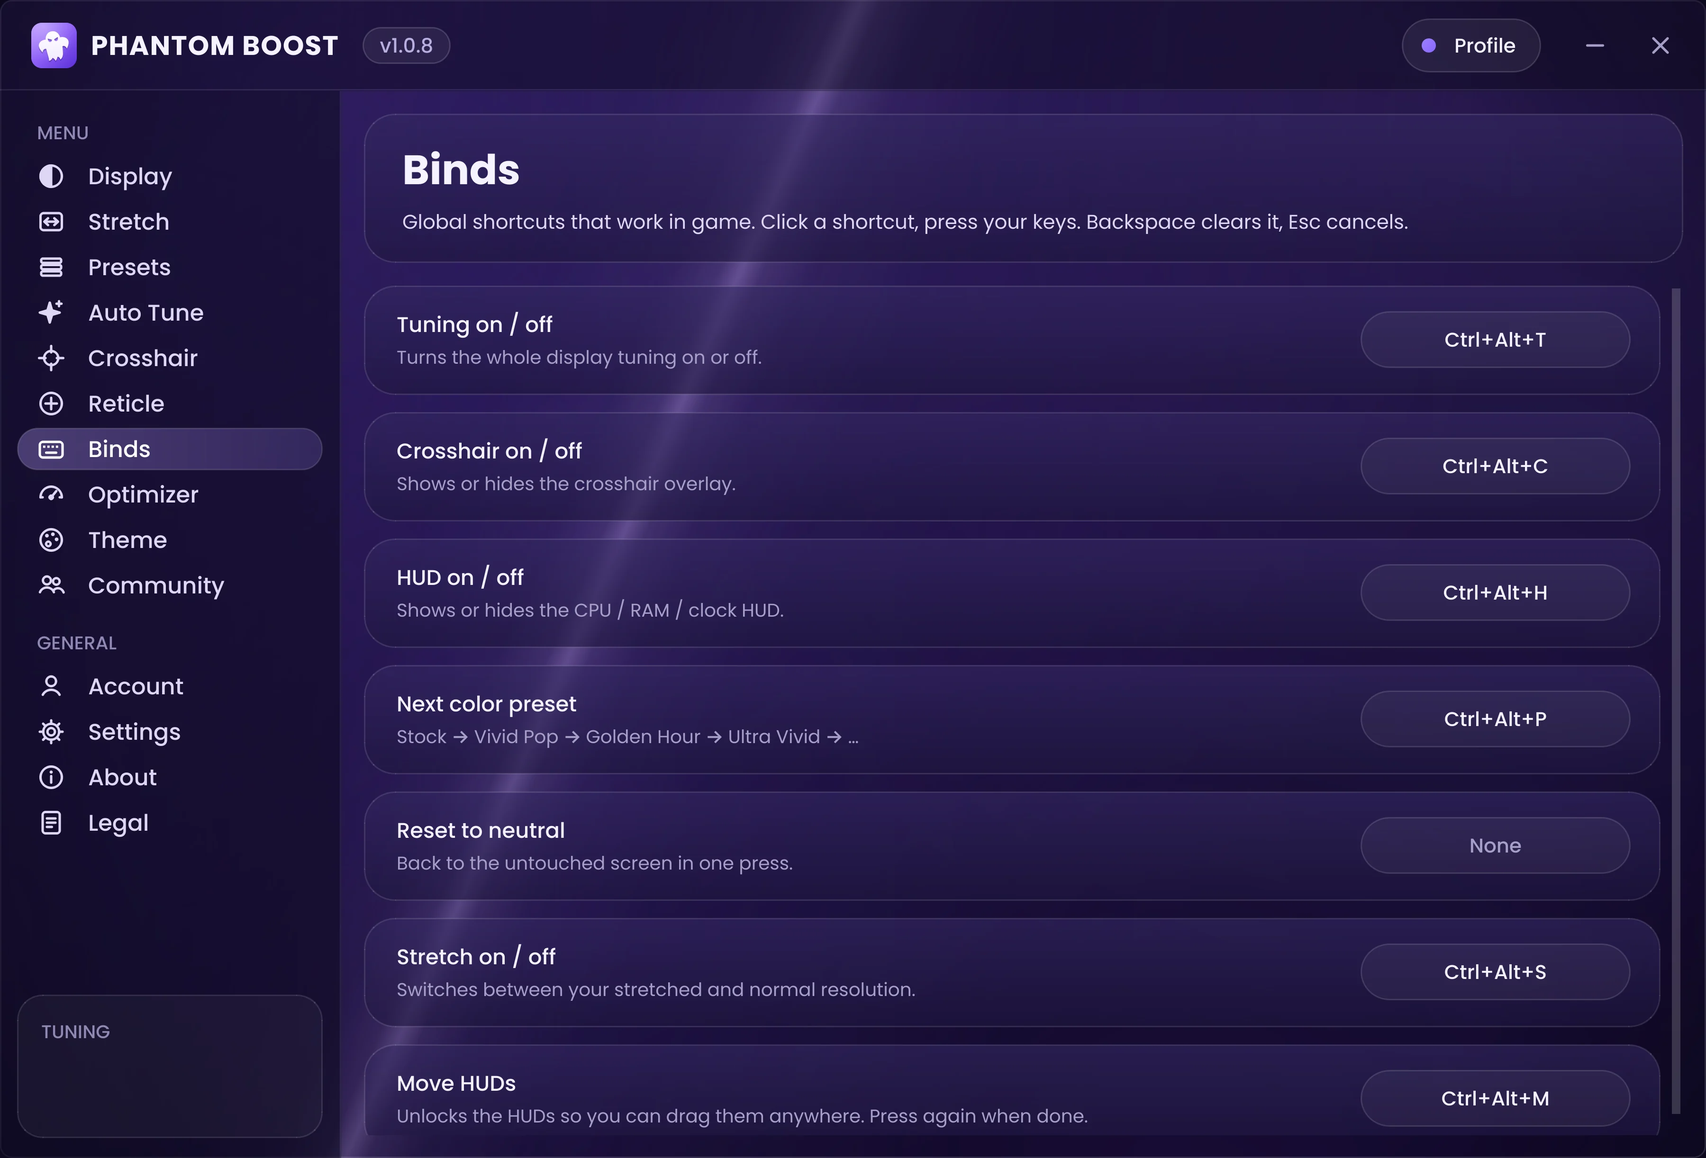
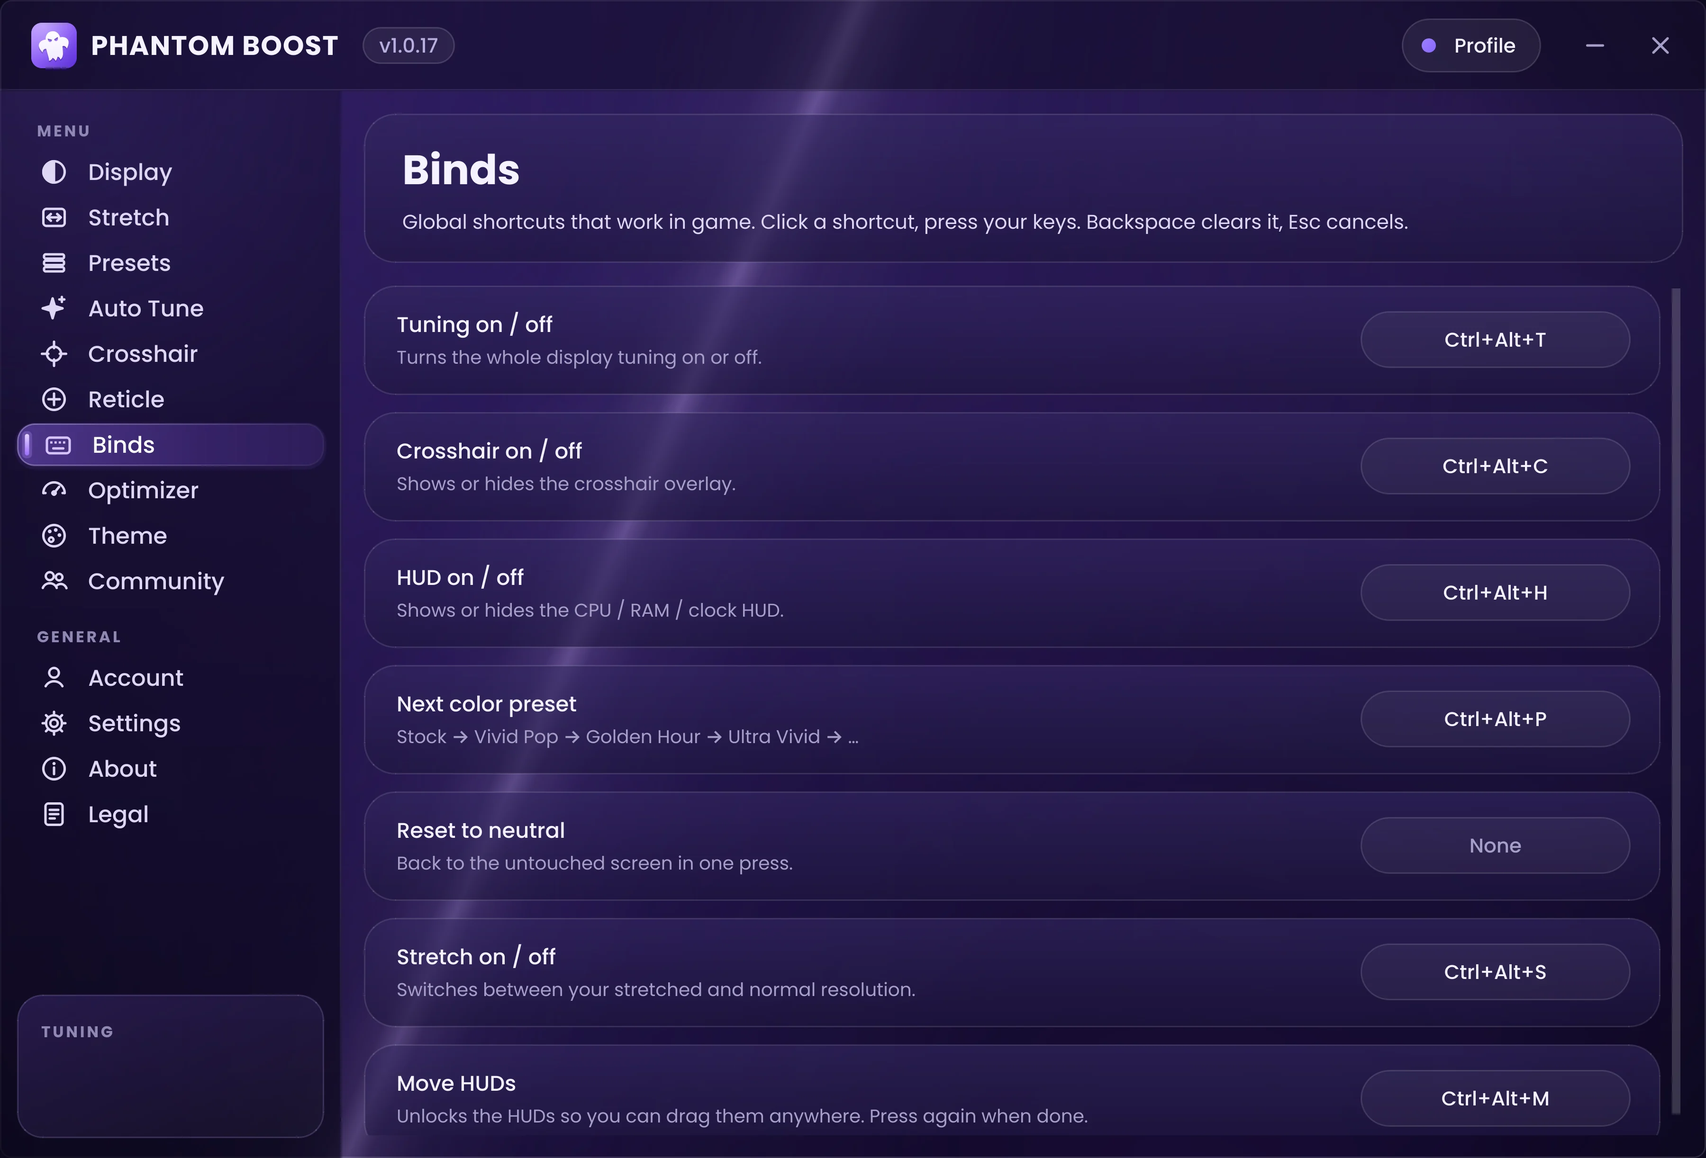
Add files via upload

Changed region(s): [[0.0, 0.0622, 0.1867, 0.4663], [0.0, 0.4973, 0.1244, 0.7149], [0.0311, 0.8703, 0.0622, 0.9014]]

diff --git a/index.html b/index.html
@@ -135,13 +135,18 @@ h1 .glow{background:linear-gradient(100deg,#fff 10%,#d9c4ff 45%,#a77bff 90%);-we
 .a-sl .fl{position:absolute;left:2px;top:13px;height:8px;border-radius:4px;background:linear-gradient(90deg,#8a5cf6,#c4a2ff)}
 .a-sl .kb{position:absolute;top:5px;width:36px;height:24px;margin-left:-18px;border-radius:12px;background:#ece6ff;box-shadow:0 2px 0 #00000046;transition:width .12s,margin .12s,background .12s}
 .a-sl:hover .kb,.a-sl.drag .kb{width:38px;margin-left:-19px;background:#fff}
-.a-pv{width:498px;height:275px;border-radius:14px;overflow:hidden;cursor:ew-resize;touch-action:none;background:#000}
+.a-pv{width:498px;height:254px;border-radius:14px;overflow:hidden;cursor:ew-resize;touch-action:none;background:#000}
 .a-pv canvas{position:absolute;inset:0;width:100%;height:100%}
 .a-tag{position:absolute;top:13px;height:26px;padding:0 11px;border-radius:13px;display:grid;place-items:center;font-size:13px;font-weight:600;color:#fff}
 .a-tag.l{left:12px;background:#000000a0}.a-tag.r{right:12px;background:#8b5cf6dd}.a-tag.r.off{background:#000000a0}
 .a-split{position:absolute;top:0;bottom:0;left:var(--pos,50%);width:2px;margin-left:-1px;background:#fff}
 .a-knob{position:absolute;top:50%;left:50%;width:30px;height:30px;margin:-15px;border-radius:50%;background:#fff;color:#5b3fd0;display:grid;place-items:center}
 .a-knob svg{width:16px;height:16px}
+.a-knob{transition:transform .14s ease-out,box-shadow .14s ease-out;box-shadow:0 2px 6px #0006}
+.a-pv:hover .a-knob,.a-pv.drag .a-knob{transform:scale(1.16);box-shadow:0 2px 8px #0007,0 0 0 6px #8b5cf640}
+.a-tag{transition:opacity .12s linear}
+#pvFade{opacity:0;pointer-events:none}
+#pvFade.go{transition:opacity .32s ease-out}
 .a-pv.curve .a-split,.a-pv.curve .a-tag{display:none}
 .a-card{top:680px;width:117px;height:100px;border-radius:14px;background:#00000046;border:2px solid #ffffff14;padding:2px 2px 7px;display:flex;flex-direction:column;gap:5px;
   transition:border-color .2s,background .2s}
@@ -151,7 +156,7 @@ h1 .glow{background:linear-gradient(100deg,#fff 10%,#d9c4ff 45%,#a77bff 90%);-we
 .a-card span{font-size:14px;text-align:center;color:#f5f2ff}
 .a-hot{z-index:2;border-radius:12px}
 .a-hot:hover{background:#ffffff0c}
-.a-nav{left:12px;width:215px;height:30px;border-radius:14px;z-index:2;border:1px solid transparent;transition:background .15s,border-color .15s}
+.a-nav{left:12px;width:216px;height:31px;border-radius:12px;z-index:2;border:1px solid transparent;transition:background .15s,border-color .15s}
 .a-nav:hover{background:#ffffff0a;border-color:#c8b4ff3c}
 
 
@@ -361,7 +366,7 @@ footer{padding:50px 0 40px;color:var(--mute);font-size:14px}
   <div class="hero wrap">
     <img class="ghost-float a" src="assets/img/logo.png" alt="">
     <img class="ghost-float b" src="assets/img/logo.png" alt="">
-    <a class="pill" href="#install"><b class="ver">v1.0.8</b><span class="live"></span><span>Out now · free for everyone</span></a>
+    <a class="pill" href="#install"><b class="ver">v1.0.17</b><span class="live"></span><span>Out now · free for everyone</span></a>
     <h1>Your game,<br><span class="glow">but it looks better.</span></h1>
     <p class="lead">Phantom Boost tunes the colors of your screen, stretches your resolution, draws a clean crosshair and adds smooth HUDs on top of your game. All in one light Windows app. 100% free.</p>
     <div class="cta">
@@ -388,10 +393,10 @@ footer{padding:50px 0 40px;color:var(--mute);font-size:14px}
             <button class="a-toggle on" id="aToggle" style="left:1077px;top:113px" role="switch" aria-checked="true" aria-label="Tuning on or off"></button>
             <div class="a-seg" id="aTabs" style="left:450px;top:228px;width:155px" data-items="Tone,Color" data-cur="1"></div>
             <div id="aRows"></div>
-            <div class="a-seg" style="left:760px;top:226px;width:104px" data-items="Rob Run" data-cur="0"></div>
+            <div class="a-seg" id="aGame" style="left:903px;top:544px;width:262px" data-items="Rob Run,Fortnite,CS2" data-cur="0"></div>
             <div class="a-seg" id="aMode" style="left:997px;top:226px;width:168px" data-items="Demo,Curve" data-cur="0"></div>
             <div class="a-pv" id="aPv" style="left:667px;top:278px">
-              <canvas id="pvBefore"></canvas><canvas id="pvAfter"></canvas><canvas id="pvCurve" hidden></canvas>
+              <canvas id="pvBefore"></canvas><canvas id="pvAfter"></canvas><canvas id="pvFade"></canvas><canvas id="pvCurve" hidden></canvas>
               <span class="a-tag l">BEFORE</span><span class="a-tag r">AFTER</span>
               <div class="a-split"><div class="a-knob"><svg><use href="#i-lr"/></svg></div></div>
             </div>
@@ -446,25 +451,25 @@ footer{padding:50px 0 40px;color:var(--mute);font-size:14px}
   <!-- ======================== FEATURES -->
   <section id="new"><div class="wrap">
     <div class="head center rv">
-      <div class="eyebrow">New in v1.0.8</div>
-      <h2>Winter and Halloween are here.</h2>
-      <p class="sub">Two seasonal themes with their own logo, plus a whole batch of upgrades. Already have Phantom Boost? It updates by itself.</p>
+      <div class="eyebrow">New in v1.0.17</div>
+      <h2>Premium, inside and out.</h2>
+      <p class="sub">Two hand-drawn seasonal themes, a premium HUD in your color, your own stretch resolutions and a lot more crosshairs. Already have Phantom Boost? It updates by itself.</p>
     </div>
     <div class="seasons">
       <article class="card season win rv"><div class="sshot"><img src="assets/img/theme-winter.webp" alt="Phantom Boost with the Winter theme" loading="lazy" width="1200" height="815"><canvas class="fx" data-fx="snow"></canvas></div>
         <h3>Winter <span class="stag">Theme</span></h3>
-        <p>Falling snow with real six-branch crystals, gusts of wind, a northern-lights sky, snowy pines, and a Santa hat on the ghost.</p></article>
+        <p>A starry night with soft northern lights, snowy mountains fading into the mist, a pine forest and falling snow. The ghost gets a Santa hat.</p></article>
       <article class="card season hal rv"><div class="sshot"><img src="assets/img/theme-halloween.webp" alt="Phantom Boost with the Halloween theme" loading="lazy" width="1200" height="815"><canvas class="fx" data-fx="spooky"></canvas></div>
         <h3>Halloween <span class="stag">Theme</span></h3>
-        <p>An orange night with a full moon, glowing pumpkins and rising embers. A spider drops in now and then, bats fly by, and the ghost gets a witch hat.</p></article>
+        <p>A purple-to-orange sky, a giant moon, a haunted manor with its lights on, dead trees and glowing pumpkins. A spider drops in now and then, and the ghost gets a witch hat.</p></article>
     </div>
     <div class="news">
-      <div class="card new rv"><svg><use href="#i-check"/></svg><div><h4>Stays out of your way</h4><p>The X button tucks the app next to the clock. Your tuning, crosshair and HUDs stay on.</p></div></div>
-      <div class="card new rv"><svg><use href="#i-check"/></svg><div><h4>New HUD stats</h4><p>Your game's FPS and your download speed join CPU, GPU, RAM, ping and the clock.</p></div></div>
-      <div class="card new rv"><svg><use href="#i-check"/></svg><div><h4>Better Discord status</h4><p>Show the game you're boosting, the song you're playing, and a clickable logo.</p></div></div>
-      <div class="card new rv"><svg><use href="#i-check"/></svg><div><h4>Music HUD upgrades</h4><p>See the next lyric line coming, and a progress bar in your cover's color.</p></div></div>
-      <div class="card new rv"><svg><use href="#i-check"/></svg><div><h4>Smoother everywhere</h4><p>A new opening animation, smooth fades, and no more lag on the blur and dim sliders.</p></div></div>
-      <div class="card new rv"><svg><use href="#i-check"/></svg><div><h4>Reset in one click</h4><p>Presets now have a "Reset to neutral" button for colors and gamma.</p></div></div>
+      <div class="card new rv"><svg><use href="#i-check"/></svg><div><h4>Premium Profile HUD</h4><p>Your avatar in a colored ring, smooth gauges, mini FPS graphs, ping bars and the date. Numbers glide instead of jumping.</p></div></div>
+      <div class="card new rv"><svg><use href="#i-check"/></svg><div><h4>Your HUD color</h4><p>Pick one of 10 colors, or any color you want, for every HUD: profile, performance graph, music and keys.</p></div></div>
+      <div class="card new rv"><svg><use href="#i-check"/></svg><div><h4>Create a resolution</h4><p>Type any stretched size. Phantom Boost tells you right away if your screen takes it, or how to add it in your GPU panel.</p></div></div>
+      <div class="card new rv"><svg><use href="#i-check"/></svg><div><h4>15 crosshairs</h4><p>Five new designs, plus rotation (turn a + into an X), square and diamond rings, and a T-style.</p></div></div>
+      <div class="card new rv"><svg><use href="#i-check"/></svg><div><h4>Smoother graph and lyrics</h4><p>A rock-steady FPS graph at 60 fps, and lyrics matched to the right version of your song, timing saved per track.</p></div></div>
+      <div class="card new rv"><svg><use href="#i-check"/></svg><div><h4>Stretch that just works</h4><p>Games in borderless mode resize with your screen, so nothing ends up off-screen anymore. Try the preview on Rob Run, Fortnite or CS2.</p></div></div>
     </div>
   </div></section>
 
@@ -478,7 +483,7 @@ footer{padding:50px 0 40px;color:var(--mute);font-size:14px}
     <div class="grid">
       <article class="card feat rv" data-tilt="5"><div class="glare"></div><div class="ico"><svg><use href="#i-color"/></svg></div><h3>Display Tuning</h3><p>Saturation, vibrance, hue, gamma and RGB, with presets, a tone curve and a live before / after.</p></article>
       <article class="card feat rv" data-tilt="5"><div class="glare"></div><div class="ico"><svg><use href="#i-stretch"/></svg></div><h3>Stretched Resolution</h3><p>1440×1080, 1280×960 and more. Auto stretch turns on with your game and goes back when you alt-tab.</p></article>
-      <article class="card feat rv" data-tilt="5"><div class="glare"></div><div class="ico"><svg><use href="#i-cross"/></svg></div><h3>Crosshair &amp; Reticle</h3><p>10 designs, any color, size, gap and outline. Share yours with a short code.</p></article>
+      <article class="card feat rv" data-tilt="5"><div class="glare"></div><div class="ico"><svg><use href="#i-cross"/></svg></div><h3>Crosshair &amp; Reticle</h3><p>15 designs, any color, rotation, ring shapes, size, gap and outline. Share yours with a short code.</p></article>
       <article class="card feat rv" data-tilt="5"><div class="glare"></div><div class="ico"><svg><use href="#i-hud"/></svg></div><h3>Smooth HUDs</h3><p>FPS, CPU, GPU, RAM, ping, download speed, keystrokes and your music with synced lyrics. Drag and resize them.</p></article>
       <article class="card feat rv" data-tilt="5"><div class="glare"></div><div class="ico"><svg><use href="#i-bolt"/></svg></div><h3>One-click Optimizer</h3><p>Windows tweaks for games, with a full backup and one-click undo.</p></article>
       <article class="card feat rv" data-tilt="5"><div class="glare"></div><div class="ico"><svg><use href="#i-spark"/></svg></div><h3>Made to feel good</h3><p>Smooth animations, Winter and Halloween themes, hotkeys, Discord status, several screens and auto-updates.</p></article>
@@ -495,6 +500,7 @@ footer{padding:50px 0 40px;color:var(--mute);font-size:14px}
         <li><svg><use href="#i-check"/></svg>Auto stretch for the games you choose</li>
         <li><svg><use href="#i-check"/></svg>Normal resolution when you alt-tab out</li>
         <li><svg><use href="#i-check"/></svg>Pick the screen if you have several</li>
+        <li><svg><use href="#i-check"/></svg>Create your own resolution, checked live</li>
       </ul>
     </div>
     <div class="rv">
@@ -525,6 +531,9 @@ footer{padding:50px 0 40px;color:var(--mute);font-size:14px}
           <button class="chip" aria-pressed="false" data-s="crossdot">Cross + dot</button>
           <button class="chip" aria-pressed="false" data-s="circle">Circle</button>
           <button class="chip" aria-pressed="false" data-s="t">T-shape</button>
+          <button class="chip" aria-pressed="false" data-s="x">X cross</button>
+          <button class="chip" aria-pressed="false" data-s="diamond">Diamond</button>
+          <button class="chip" aria-pressed="false" data-s="square">Square</button>
         </div>
         <div class="swatches" id="xcol">
           <button class="sw" aria-label="Green" aria-pressed="true" data-c="#00ff88" style="background:#00ff88"></button>
@@ -578,7 +587,7 @@ footer{padding:50px 0 40px;color:var(--mute);font-size:14px}
       </div>
       <div class="nums">
         <div class="num"><b id="n-dl">—</b><span>Downloads</span></div>
-        <div class="num"><b class="ver">v1.0.8</b><span>Latest version</span></div>
+        <div class="num"><b class="ver">v1.0.17</b><span>Latest version</span></div>
         <div class="num"><b>0 €</b><span>Forever</span></div>
         <div class="num"><b>~10 s</b><span>To install</span></div>
       </div>
@@ -714,29 +723,46 @@ footer{padding:50px 0 40px;color:var(--mute);font-size:14px}
       }
     }
     // image source recadrée en "cover"
-    function cover(img, cv, w, h, dpr) {
+    // fy : hauteur gardée quand l'image est recadrée (0 = haut, 1 = bas), comme dans l'appli
+    function cover(img, cv, w, h, dpr, fy = .5) {
       cv.width = Math.round(w * dpr); cv.height = Math.round(h * dpr);
       const c = cv.getContext("2d", { willReadFrequently: true }), k = Math.max(cv.width / img.width, cv.height / img.height);
       const dw = img.width * k, dh = img.height * k;
-      c.drawImage(img, (cv.width - dw) / 2, (cv.height - dh) / 2, dw, dh);
+      c.imageSmoothingQuality = "high";
+      c.drawImage(img, (cv.width - dw) / 2, (cv.height - dh) * fy, dw, dh);
       return c;
     }
 
-    const img = new Image();
-    img.src = "assets/img/rob_run.jpg";
-    let srcData = null, aftCtx = null, aftData = null;
-    img.decode().then(() => {
-      const dpr = Math.min(3, Math.max(1.5, (window.devicePixelRatio || 1) * (app.clientWidth / 1200)));
-      const bctx = cover(img, $("#pvBefore"), 498, 275, dpr);
-      srcData = bctx.getImageData(0, 0, $("#pvBefore").width, $("#pvBefore").height);
-      aftCtx = cover(img, $("#pvAfter"), 498, 275, dpr);
-      aftData = aftCtx.createImageData(srcData.width, srcData.height);
-      $$("#aCards canvas").forEach((cv, i) => {
-        const c = cover(img, cv, 109, 62, 3), d = c.getImageData(0, 0, cv.width, cv.height), o = c.createImageData(cv.width, cv.height);
-        grade(d, o, PRESETS[i][1]); c.putImageData(o, 0, 0);
+    // les trois jeux de l'aperçu (mêmes captures et même cadrage que dans l'appli)
+    const GAMES = [["assets/img/rob_run.jpg", .58], ["assets/img/fortnite.jpg", .03], ["assets/img/cs2.jpg", .5]];
+    const imgs = {};
+    const loadImg = src => imgs[src] || (imgs[src] = new Promise((ok, ko) => { const im = new Image(); im.onload = () => ok(im); im.onerror = ko; im.src = src; }));
+    let srcData = null, aftCtx = null, aftData = null, gameTok = 0;
+    function useGame(gi, fadeIn) {
+      const tok = ++gameTok, [src, fy] = GAMES[gi];
+      loadImg(src).then(img => {
+        if (tok !== gameTok) return;  // un autre jeu a été choisi entre-temps
+        const dpr = Math.min(3, Math.max(1.5, (window.devicePixelRatio || 1) * (app.clientWidth / 1200)));
+        if (fadeIn && srcData) {  // fondu : l'image actuelle (avant + après) reste par-dessus et s'efface
+          const f = $("#pvFade"), b = $("#pvBefore"), a = $("#pvAfter");
+          f.width = b.width; f.height = b.height;
+          const fc = f.getContext("2d"); fc.drawImage(b, 0, 0);
+          const x = Math.round(b.width * st.pos); fc.drawImage(a, x, 0, b.width - x, b.height, x, 0, b.width - x, b.height);
+          f.classList.remove("go"); f.style.opacity = 1; void f.offsetWidth; f.classList.add("go"); f.style.opacity = 0;
+        }
+        const bctx = cover(img, $("#pvBefore"), 498, 254, dpr, fy);
+        srcData = bctx.getImageData(0, 0, $("#pvBefore").width, $("#pvBefore").height);
+        aftCtx = cover(img, $("#pvAfter"), 498, 254, dpr, fy);
+        aftData = aftCtx.createImageData(srcData.width, srcData.height);
+        $$("#aCards canvas").forEach((cv, i) => {  // les miniatures des presets suivent le jeu choisi
+          const c = cover(img, cv, 109, 62, 3, fy), d = c.getImageData(0, 0, cv.width, cv.height), o = c.createImageData(cv.width, cv.height);
+          grade(d, o, PRESETS[i][1]); c.putImageData(o, 0, 0);
+        });
+        draw();
       });
-      render();
-    });
+    }
+    useGame(0, false);
+    GAMES.slice(1).forEach(([src]) => setTimeout(() => loadImg(src), 1500));  // préchargés : le changement est instantané
 
     let raf = 0;
     function render() { if (!raf) raf = requestAnimationFrame(() => { raf = 0; draw(); }); }
@@ -746,6 +772,9 @@ footer{padding:50px 0 40px;color:var(--mute);font-size:14px}
         grade(srcData, aftData, p); aftCtx.putImageData(aftData, 0, 0);  // comme l'appli : l'aperçu reste visible éteint
       }
       $("#pvAfter").style.clipPath = `inset(0 0 0 ${st.pos * 100}%)`;
+      const W = 498, tl = $("#aPv .a-tag.l"), tr = $("#aPv .a-tag.r"), x = st.pos * W;  // l'étiquette s'efface quand la ligne passe dessus
+      tl.style.opacity = Math.min(1, Math.max(0, (x - (12 + tl.offsetWidth) + 6) / 30));
+      tr.style.opacity = Math.min(1, Math.max(0, ((W - 12 - tr.offsetWidth) - x + 6) / 30));
       $("#aPv").style.setProperty("--pos", st.pos * 100 + "%");
       $("#aBadge").textContent = $("#aOnb").textContent = st.on ? "ON" : "OFF";
       const tagR = $("#aPv .a-tag.r"); tagR.textContent = st.on ? "AFTER" : "AFTER · OFF"; tagR.classList.toggle("off", !st.on);
@@ -795,6 +824,7 @@ footer{padding:50px 0 40px;color:var(--mute);font-size:14px}
         b.addEventListener("click", () => {
           [...seg.children].forEach(x => x.setAttribute("aria-pressed", x === b));
           if (seg.id === "aTabs") { st.tab = i ? "color" : "tone"; buildRows(); }
+          if (seg.id === "aGame") useGame(i, true);
           if (seg.id === "aMode") { st.mode = i ? "curve" : "demo"; $("#pvCurve").hidden = !i; $("#aPv").classList.toggle("curve", !!i); render(); }
         });
         seg.appendChild(b);
@@ -826,15 +856,17 @@ footer{padding:50px 0 40px;color:var(--mute);font-size:14px}
     // avant / après
     const pv = $("#aPv");
     const mv = e => { if (st.mode !== "demo") return; const b = pv.getBoundingClientRect(); st.pos = Math.min(1, Math.max(0, (e.clientX - b.left) / b.width)); render(); };
-    pv.addEventListener("pointerdown", e => { pv.setPointerCapture(e.pointerId); mv(e); });
+    pv.addEventListener("pointerdown", e => { pv.setPointerCapture(e.pointerId); pv.classList.add("drag"); mv(e); });
+    pv.addEventListener("pointerup", () => pv.classList.remove("drag"));
+    pv.addEventListener("pointercancel", () => pv.classList.remove("drag"));
     pv.addEventListener("pointermove", e => { if (pv.hasPointerCapture(e.pointerId)) mv(e); });
 
     // courbe de tons (Curve)
     function drawCurve() {
-      const cv = $("#pvCurve"), dpr = 3; cv.width = 498 * dpr; cv.height = 275 * dpr;
+      const cv = $("#pvCurve"), dpr = 3; cv.width = 498 * dpr; cv.height = 254 * dpr;
       const c = cv.getContext("2d"); c.scale(dpr, dpr);
-      c.fillStyle = "#120d2a"; c.fillRect(0, 0, 498, 275);
-      const x0 = 24, y0 = 16, w = 300, h = 243;
+      c.fillStyle = "#120d2a"; c.fillRect(0, 0, 498, 254);
+      const x0 = 24, y0 = 16, w = 300, h = 222;
       c.strokeStyle = "#ffffff14"; c.lineWidth = 1;
       for (let i = 1; i < 4; i++) { c.beginPath(); c.moveTo(x0 + w * i / 4, y0); c.lineTo(x0 + w * i / 4, y0 + h); c.moveTo(x0, y0 + h * i / 4); c.lineTo(x0 + w, y0 + h * i / 4); c.stroke(); }
       c.strokeStyle = "#ffffff26"; c.strokeRect(x0, y0, w, h);
@@ -861,8 +893,7 @@ footer{padding:50px 0 40px;color:var(--mute);font-size:14px}
 
     // menu de gauche : chaque page de l'appli
     // positions mesurées sur les captures : une ligne toutes les 32 px, 30 px de haut (comme la sélection dans l'appli)
-    const NAV = [["display", 109], ["stretch", 141], ["presets", 173], ["auto-tune", 205], ["crosshair", 237], ["reticle", 269], ["binds", 301],
-                 ["optimizer", 333], ["theme", 365], ["community", 397], ["account", 468], ["settings", 500], ["about", 532], ["legal", 564]];
+    const NAV = [["display", 106], ["stretch", 138], ["presets", 170], ["auto-tune", 202], ["crosshair", 234], ["reticle", 266], ["binds", 298], ["optimizer", 330], ["theme", 362], ["community", 394], ["account", 463], ["settings", 495], ["about", 527], ["legal", 559]];
     let cur = "display", tok = 0;
     const go = page => {  // fondu enchaîné d'une page à l'autre
       if (page === cur) return;
@@ -993,6 +1024,20 @@ footer{padding:50px 0 40px;color:var(--mute);font-size:14px}
     if (X.style === "dot") dot(Math.max(2, th + sz / 6));
     if (X.style === "crossdot") dot(Math.max(1.5, th * .9));
     if (X.style === "circle") { ring(sz + gp); dot(Math.max(1.2, th * .7)); }
+    if (X.style === "x") {  // branches tournées de 45°
+      const k = Math.SQRT1_2;
+      [[1, 1], [1, -1], [-1, 1], [-1, -1]].forEach(([a, b]) => line(cx + a * gp * k, cy + b * gp * k, cx + a * (gp + sz) * k, cy + b * (gp + sz) * k));
+    }
+    if (X.style === "diamond" || X.style === "square") {
+      const R = sz + gp;
+      shapes.push((c, e) => {
+        c.lineWidth = th + e; c.lineJoin = "miter"; c.beginPath();
+        if (X.style === "square") c.rect(cx - R * .8, cy - R * .8, R * 1.6, R * 1.6);
+        else { c.moveTo(cx, cy - R); c.lineTo(cx + R, cy); c.lineTo(cx, cy + R); c.lineTo(cx - R, cy); c.closePath(); }
+        c.stroke();
+      });
+      dot(Math.max(1.2, th * .7));
+    }
     ctx.lineCap = "butt";
     if (X.outline) { ctx.strokeStyle = ctx.fillStyle = "rgba(0,0,0,.85)"; shapes.forEach(f => f(ctx, 2)); }
     ctx.strokeStyle = ctx.fillStyle = X.color; shapes.forEach(f => f(ctx, 0));
